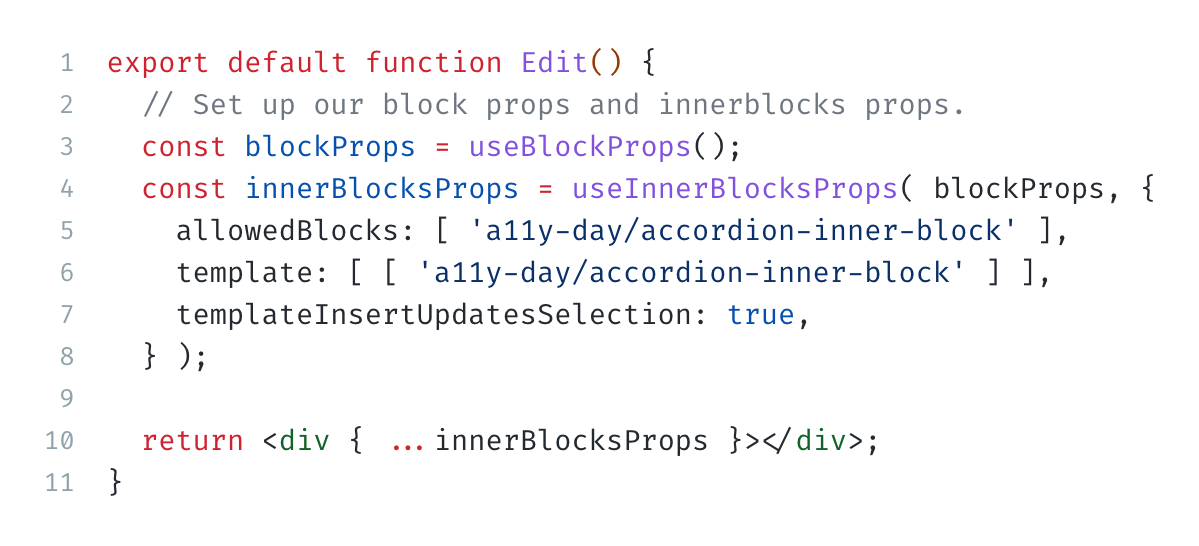
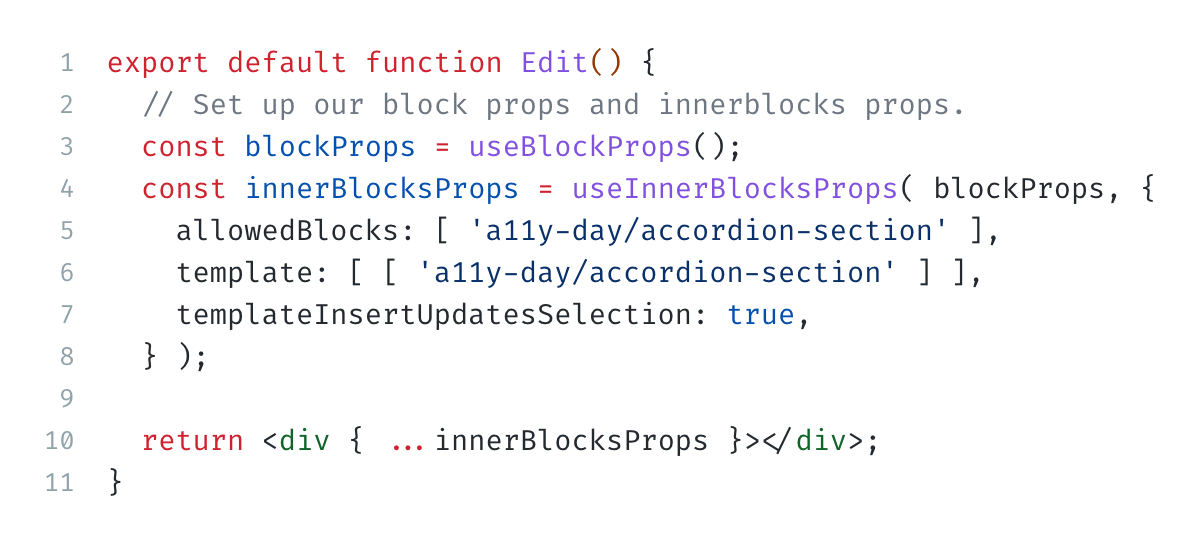
update code screenshots

Changed region(s): [[0.6172, 0.4048, 0.8332, 0.5293], [0.8641, 0.4048, 0.8949, 0.4359]]

diff --git a/presentation.html b/presentation.html
@@ -288,7 +288,7 @@
 						<code class="screen-reader-only">
 							{
 								// partial view of the block.json
-								&#x22;name&#x22;: &#x22;a11y-day/accordion-inner-block&#x22;,
+								&#x22;name&#x22;: &#x22;a11y-day/accordion-section&#x22;,
 								&#x22;title&#x22;: &#x22;Accordion Section&#x22;,
 								&#x22;parent&#x22;: [ &#x22;a11y-day/accordion-block&#x22; ],
 								&#x22;attributes&#x22;: {
@@ -345,7 +345,7 @@
 				<p>Apply the button styles and toggle animation to the heading <code>div</code></p>
 
 				<code class="screen-reader-only">
-					.wp-block-a11y-day-accordion-inner-block {
+					.wp-block-a11y-day-accordion-section {
 						&#x9;.wp-block-a11y-day-accordion-heading {
 						&#x9;&#x9;display: flex;
 						&#x9;&#x9;align-items: center;
